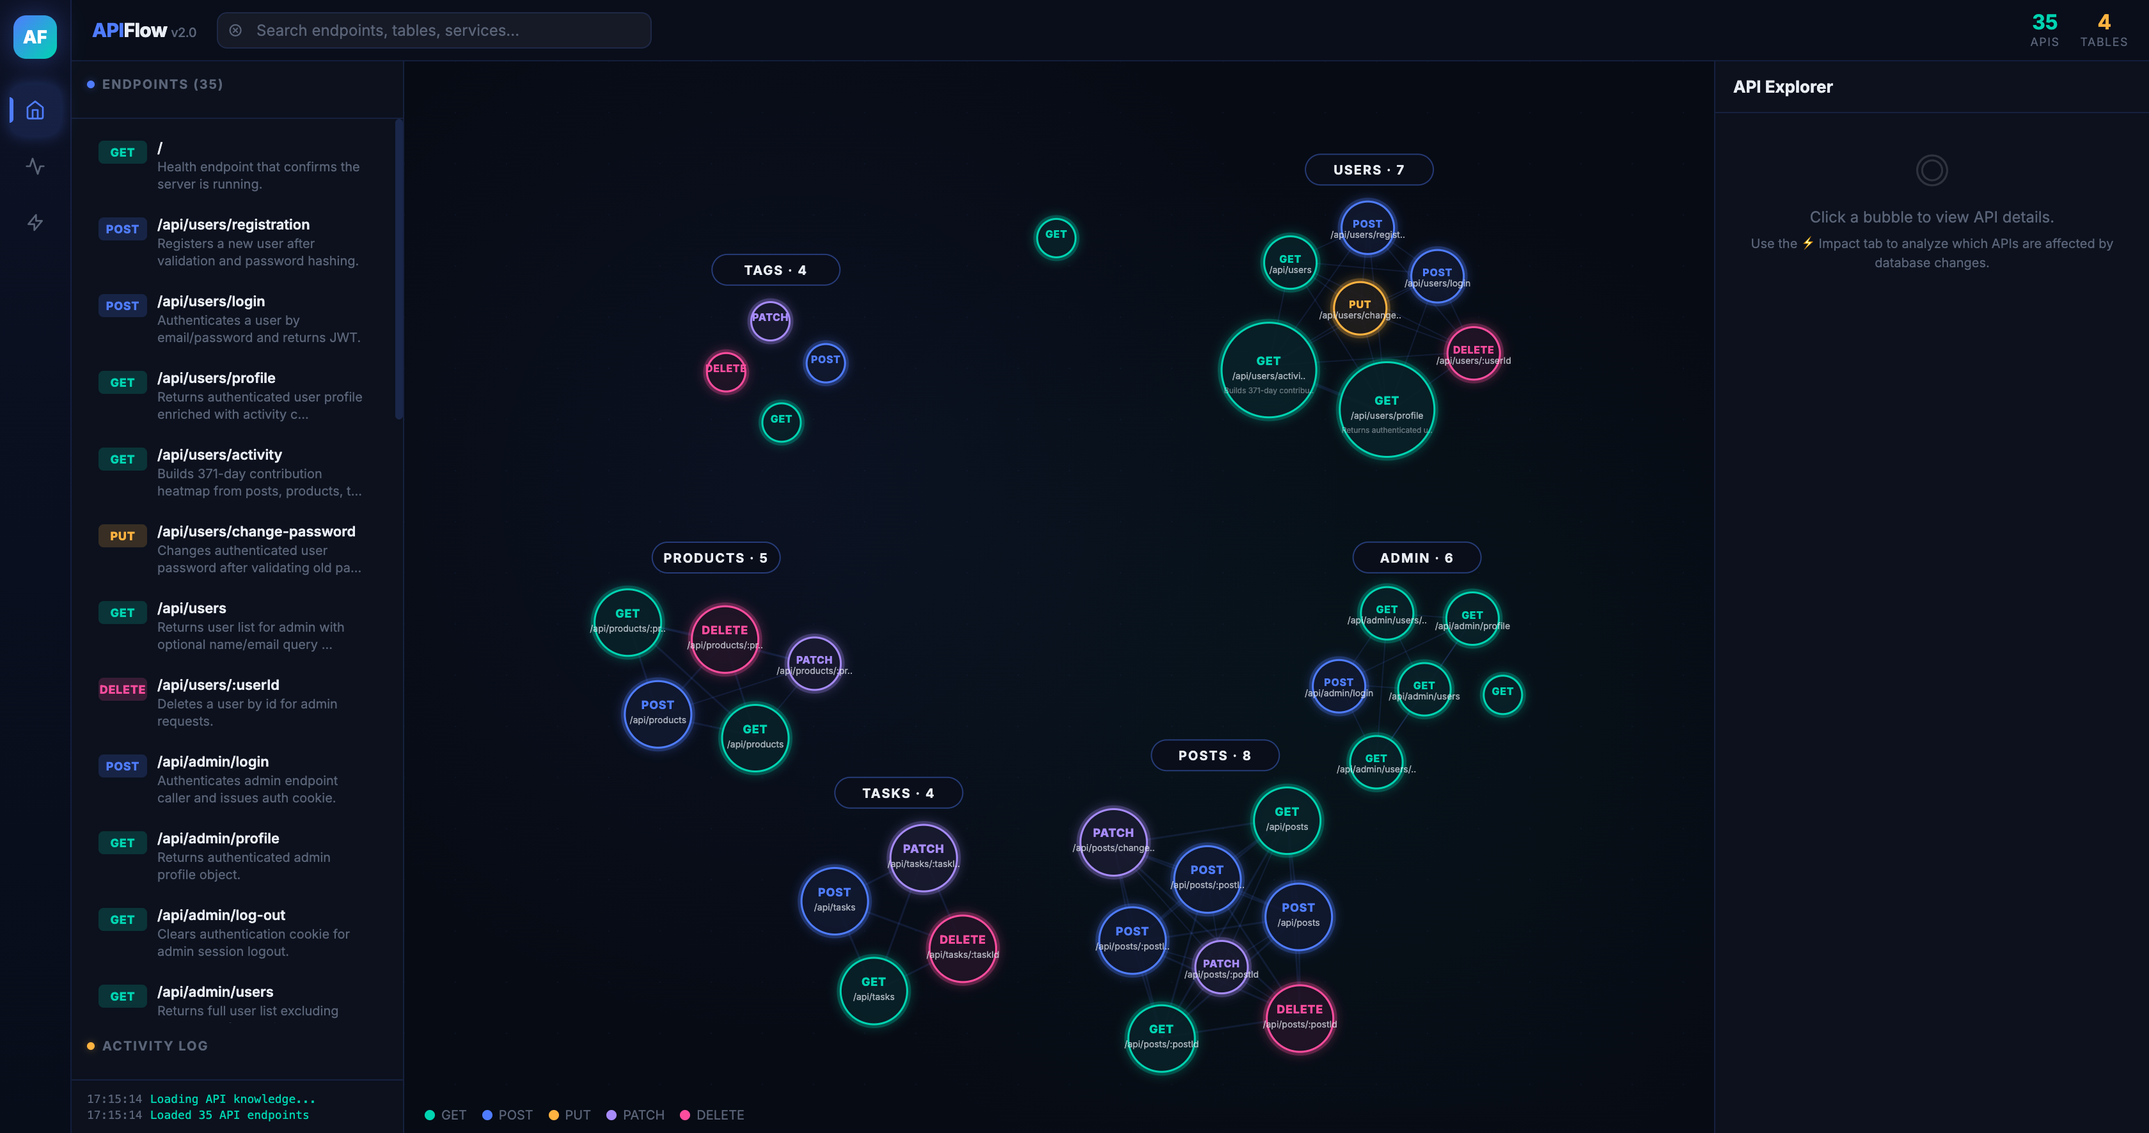
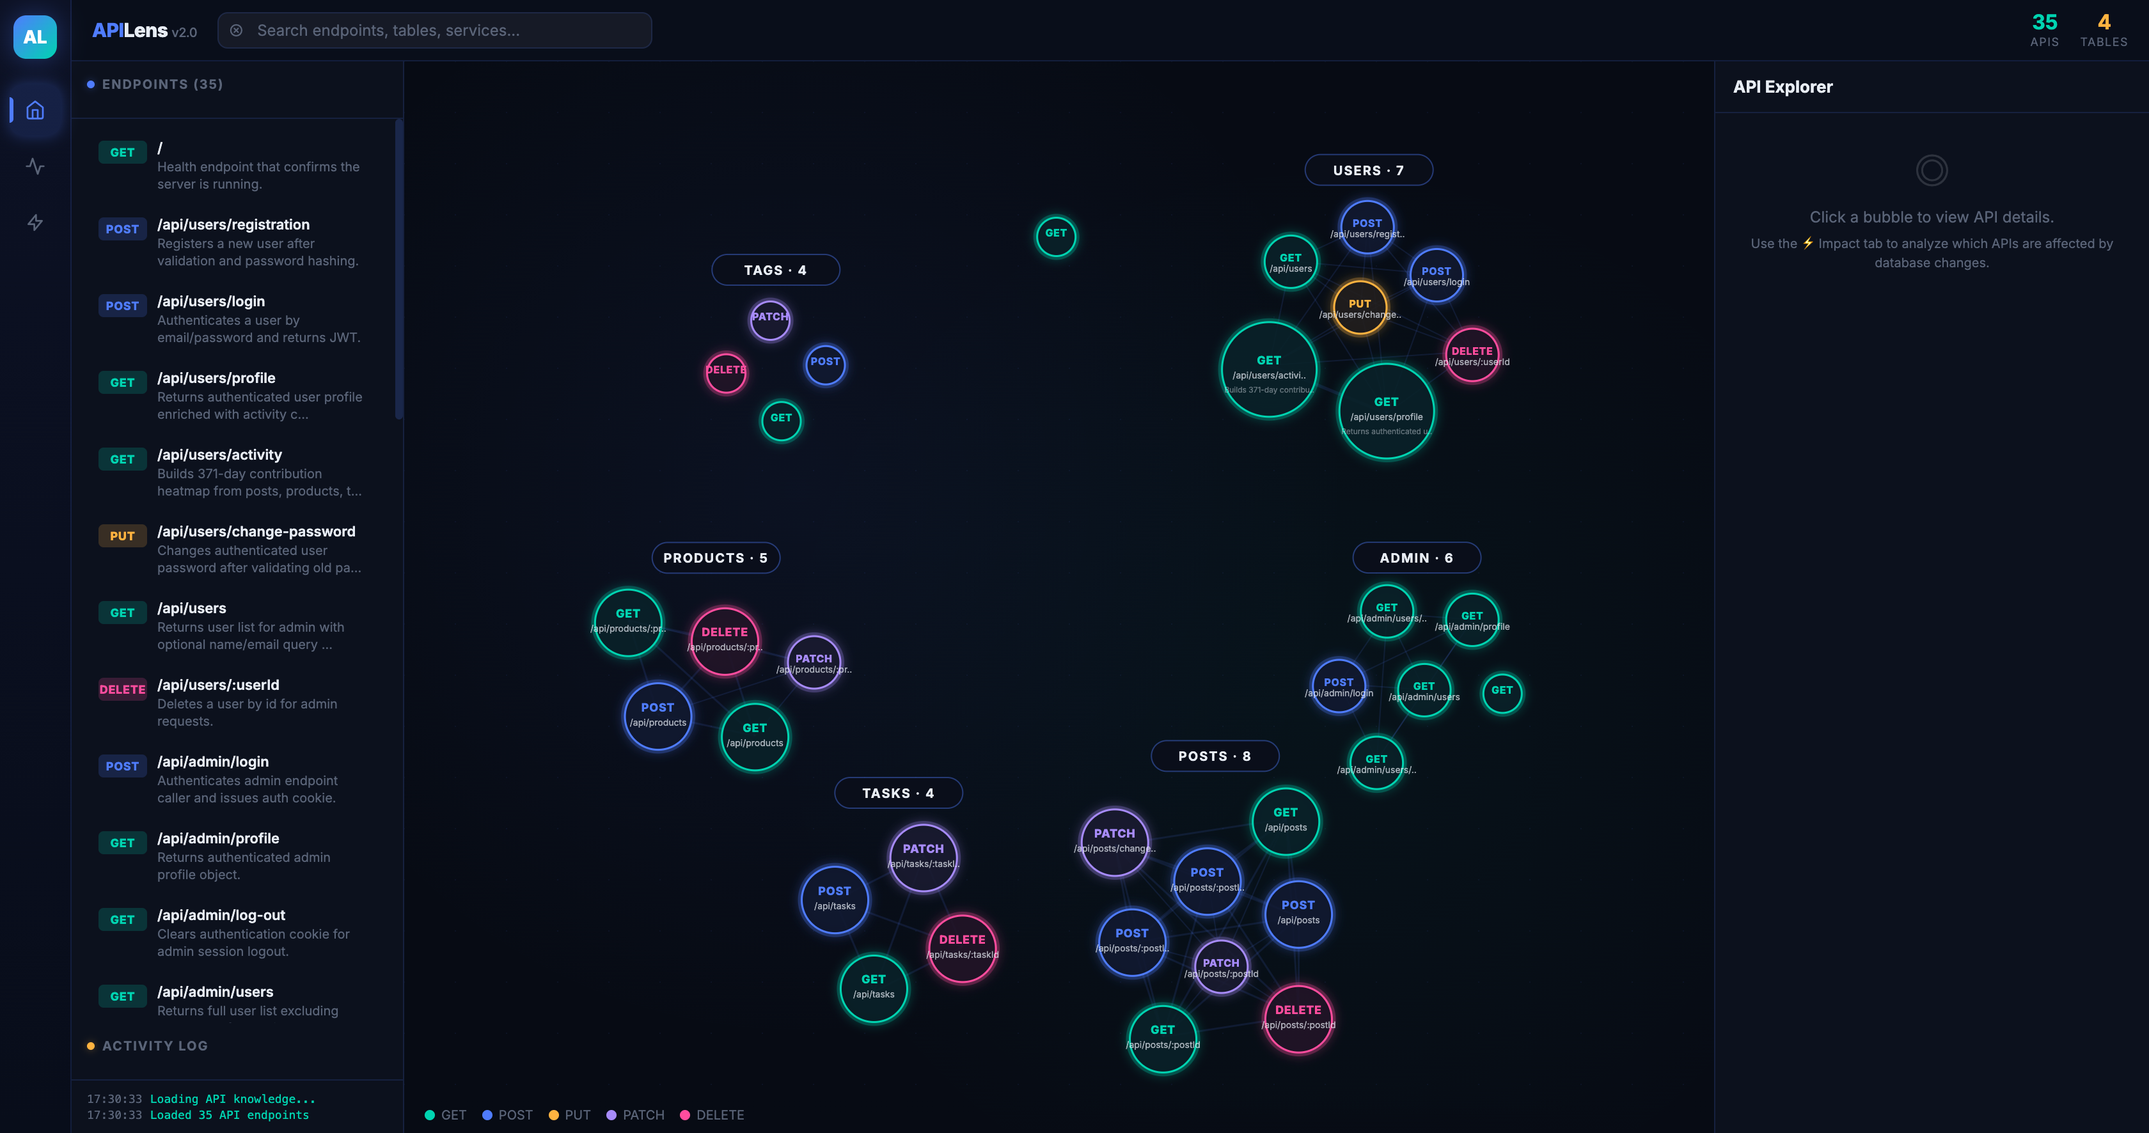
feat(rename): rebrand APIFlow/apimap → APILens/apilens everywhere
Brand rename across the full codebase:

UI (public/index.html)
  - Page title: APIFlow → APILens
  - Top-bar brand text: 'Flow' → 'Lens' (logo monogram AF → AL)
  - Demo cache refs: .apimap/ → .apilens/
  - Error hint: apimap scan → apilens scan

CLI (src/cli.js)
  - Binary name: apimap → apilens
  - Usage text, init message, scan-prompt banner, serve startup log
  - Cache dir references: .apimap → .apilens

Engine
  - cache.js: CACHE_DIR '.apimap' → '.apilens'
  - scanner.js: skip dir '.apimap' → '.apilens'
  - workflow.js: APIMAP → APILENS, APIFlow → APILens, .apimap/ → .apilens/
  - server.js: error hints updated

package.json
  - name: apiflow → apilens
  - bin + script key: apimap → apilens
  - description updated to the new tagline

README.md
  - All APIFlow → APILens, apimap → apilens, .apimap/ → .apilens/
  - Fresh screenshots with APILens branding in all 4 views

docs/screenshots/
  - Replaced all 5 screenshots with fresh captures showing APILens v2.0

diff --git a/src/cli.js b/src/cli.js
@@ -11,12 +11,12 @@ const OPTION_ALIASES = {
 };
 
 function printUsage() {
-  console.log(`Usage: apimap <init|scan|scan-prompt|serve> [path]
+  console.log(`Usage: apilens <init|scan|scan-prompt|serve> [path]
 
 Path behavior:
   - Provide [path] (or --dir <path>) to target that exact directory.
-  - If omitted for init/scan/scan-prompt, apimap uses the nearest git repository root.
-  - If omitted for serve, apimap serves the current working directory.
+  - If omitted for init/scan/scan-prompt, apilens uses the nearest git repository root.
+  - If omitted for serve, apilens serves the current working directory.
 `);
 }
 
@@ -120,7 +120,7 @@ async function main() {
 
   if (command === 'init') {
     ensureCacheDir(targetPath);
-    console.log(`Initialized .apimap cache at ${targetPath}`);
+    console.log(`Initialized .apilens cache at ${targetPath}`);
     return;
   }
 
@@ -134,15 +134,15 @@ async function main() {
   if (command === 'scan-prompt') {
     const result = generateOpenCodeScanPrompt(targetPath);
 
-    // Write the instruction file into the target repo's .apimap directory
-    const apimapDir = path.join(targetPath, '.apimap');
-    fs.mkdirSync(apimapDir, { recursive: true });
-    const instructionFile = path.join(apimapDir, 'SCAN_INSTRUCTIONS.md');
+    // Write the instruction file into the target repo's .apilens directory
+    const apilensDir = path.join(targetPath, '.apilens');
+    fs.mkdirSync(apilensDir, { recursive: true });
+    const instructionFile = path.join(apilensDir, 'SCAN_INSTRUCTIONS.md');
     fs.writeFileSync(instructionFile, result.prompt, 'utf8');
 
     console.log('');
     console.log('╔══════════════════════════════════════════════════════════╗');
-    console.log('║            APIFlow Scan Instructions Ready               ║');
+    console.log('║            APILens Scan Instructions Ready               ║');
     console.log('╠══════════════════════════════════════════════════════════╣');
     console.log(`║  📄 Instruction file created at:                         ║`);
     console.log(`║     ${instructionFile.padEnd(54)}║`);
@@ -153,10 +153,10 @@ async function main() {
     console.log('║    "Follow the instructions in SCAN_INSTRUCTIONS.md"    ║');
     console.log('║                                                          ║');
     console.log('║  The AI will scan your repo and create:                  ║');
-    console.log('║    • .apimap/api_knowledge.json  (required)              ║');
-    console.log('║    • .apimap/metadata.json       (audit trail)           ║');
+    console.log('║    • .apilens/api_knowledge.json  (required)             ║');
+    console.log('║    • .apilens/metadata.json       (audit trail)          ║');
     console.log('║                                                          ║');
-    console.log('║  Then run:  npx apimap serve .                           ║');
+    console.log('║  Then run:  npx apilens serve .                          ║');
     console.log('╚══════════════════════════════════════════════════════════╝');
     console.log('');
     console.log(JSON.stringify({ fileCount: result.fileCount, routeCount: result.routeCount, instructionFile }, null, 2));
@@ -167,7 +167,7 @@ async function main() {
     const app = createServer(targetPath);
     const port = process.env.PORT || 3789;
     app.listen(port, () => {
-      console.log(`APIMap server listening at http://localhost:${port}`);
+      console.log(`APILens server listening at http://localhost:${port}`);
     });
     return;
   }
@@ -178,7 +178,7 @@ async function main() {
 
 if (require.main === module) {
   main().catch((error) => {
-    console.error(`apimap failed: ${error.message}`);
+    console.error(`apilens failed: ${error.message}`);
     process.exit(1);
   });
 }

diff --git a/public/index.html b/public/index.html
@@ -3,7 +3,7 @@
   <head>
     <meta charset="UTF-8" />
     <meta name="viewport" content="width=device-width, initial-scale=1.0" />
-    <title>APIFlow</title>
+    <title>APILens</title>
     <link rel="icon" href="data:," />
     <link rel="preconnect" href="https://fonts.googleapis.com" />
     <link rel="preconnect" href="https://fonts.gstatic.com" crossorigin />
@@ -434,14 +434,14 @@
         {
           method: 'GET', path: '/api/graph',
           summary: 'Returns generated API dependency graph data for visualization.',
-          flow: ['Receive request from UI explorer', 'Read .apimap/graph.json from cache files', 'Respond with graph payload'],
-          tables: [], services: [], caches: ['.apimap/graph.json'], queues: [], tableAccess: []
+          flow: ['Receive request from UI explorer', 'Read .apilens/graph.json from cache files', 'Respond with graph payload'],
+          tables: [], services: [], caches: ['.apilens/graph.json'], queues: [], tableAccess: []
         },
         {
           method: 'GET', path: '/api/apis',
           summary: 'Returns API knowledge summaries from cache for endpoint navigation.',
-          flow: ['Receive request from UI explorer', 'Read .apimap/api_knowledge.json from cache', 'Flatten API entries and return list'],
-          tables: [], services: [], caches: ['.apimap/api_knowledge.json'], queues: [], tableAccess: []
+          flow: ['Receive request from UI explorer', 'Read .apilens/api_knowledge.json from cache', 'Flatten API entries and return list'],
+          tables: [], services: [], caches: ['.apilens/api_knowledge.json'], queues: [], tableAccess: []
         },
         {
           method: 'GET', path: '/api/accounts/:accountId',
@@ -1440,7 +1440,7 @@
             addLog('Loading API knowledge...', 'ok');
             try {
               const res = await fetch('/api/apis');
-              if (!res.ok) throw new Error('Using demo data. Run `apimap scan .` to load live cache.');
+              if (!res.ok) throw new Error('Using demo data. Run `apilens scan .` to load live cache.');
               const payload = await res.json();
               const loaded = Array.isArray(payload.apis) ? payload.apis : fallbackApis;
               setRawApis(loaded);
@@ -1479,7 +1479,7 @@
 
         /* ---- Issue #6: Icon Sidebar (fixed nav with Impact Analysis) ---- */
         const iconSidebar = h('nav', { className: 'icon-sidebar', key: 'icon-sidebar' }, [
-          h('div', { className: 'logo', key: 'logo' }, 'AF'),
+          h('div', { className: 'logo', key: 'logo' }, 'AL'),
           /* Explorer */
           h('button', {
             className: 'icon-btn' + (activeNav === 'explorer' ? ' active' : ''),
@@ -1505,7 +1505,7 @@
         const topbar = h('header', { className: 'topbar', key: 'topbar' }, [
           h('div', { className: 'topbar-brand', key: 'brand' }, [
             h('span', { className: 'highlight', key: 'h' }, 'API'),
-            'Flow ',
+            'Lens ',
             h('span', { style: { color: '#5a6478', fontSize: 10, fontWeight: 500 }, key: 'v' }, 'v2.0')
           ]),
           h('div', { className: 'topbar-search', key: 'search' }, [

diff --git a/src/engine/workflow.js b/src/engine/workflow.js
@@ -14,9 +14,9 @@ function generateOpenCodeScanPrompt(repoPath) {
 
   const prompt = [
     '═══════════════════════════════════════════════════════════',
-    'APIMAP SCAN — PURPOSE',
+    'APILENS SCAN — PURPOSE',
     '═══════════════════════════════════════════════════════════',
-    'You are generating scan cache files for the APIFlow dashboard.',
+    'You are generating scan cache files for the APILens dashboard.',
     'The dashboard renders these views from your output:',
     '  • Bubble chart   — one bubble per API, grouped by URL domain (users / admin / posts / …)',
     '  • Explorer       — searchable list of all endpoints with one-line summaries',
@@ -24,11 +24,11 @@ function generateOpenCodeScanPrompt(repoPath) {
     '  • Impact Analysis — shows which APIs break when a specific DB table or column changes',
     '',
     'Everything the dashboard displays is derived exclusively from',
-    '  .apimap/api_knowledge.json  ← PRIMARY OUTPUT (required)',
-    '  .apimap/metadata.json       ← AUDIT TRAIL (required)',
+    '  .apilens/api_knowledge.json  ← PRIMARY OUTPUT (required)',
+    '  .apilens/metadata.json       ← AUDIT TRAIL (required)',
     '',
     'graph.json and scan_state.json are derived automatically by the',
-    'APIFlow server on first boot — you do NOT need to generate them.',
+    'APILens server on first boot — you do NOT need to generate them.',
     '',
     `REPOSITORY_ROOT: ${root}`,
     '',
@@ -98,7 +98,7 @@ function generateOpenCodeScanPrompt(repoPath) {
     '   Trace each route through its controller → service → repository layers.',
     '   Impact analysis quality depends on accurate table + column coverage; be thorough.',
     '',
-    '3) Create `.apimap/metadata.json` — a JSON array, one entry per route:',
+    '3) Create `.apilens/metadata.json` — a JSON array, one entry per route:',
     '   { "method": "POST", "path": "/api/users", "framework": "express",',
     '     "filePath": "routes/users.js", "tables": ["users"],',
     '     "services": [], "dependencies": ["bcrypt","jsonwebtoken"],',
@@ -107,7 +107,7 @@ function generateOpenCodeScanPrompt(repoPath) {
     '                       "operations": ["SELECT","INSERT"], "evidence": ["controller/user.js:31"] }],',
     '     "code": "<30-word relevant handler snippet>" }',
     '',
-    '4) Create `.apimap/api_knowledge.json` — a JSON array, one wrapper object per route:',
+    '4) Create `.apilens/api_knowledge.json` — a JSON array, one wrapper object per route:',
     '   { "apis": [{ "method": "POST", "path": "/api/users",',
     '                "summary": "Creates a new user after validating email uniqueness and hashing the password.",',
     '                "flow": ["Validate request body","Check for duplicate email in users",',

diff --git a/src/server.js b/src/server.js
@@ -34,7 +34,7 @@ function createServer(rootDir) {
         const { graph } = readCache(rootDir);
         return sendJson(res, 200, graph);
       } catch {
-        return sendJson(res, 500, { error: 'Failed to load graph cache. Run `apimap scan .` first.' });
+        return sendJson(res, 500, { error: 'Failed to load graph cache. Run `apilens scan .` first.' });
       }
     }
 
@@ -44,7 +44,7 @@ function createServer(rootDir) {
         const apis = apiKnowledge.flatMap((summary) => summary.apis);
         return sendJson(res, 200, { apis });
       } catch {
-        return sendJson(res, 500, { error: 'Failed to load api knowledge cache. Run `apimap scan .` first.' });
+        return sendJson(res, 500, { error: 'Failed to load api knowledge cache. Run `apilens scan .` first.' });
       }
     }
 
@@ -56,7 +56,7 @@ function createServer(rootDir) {
         const impact = buildImpactPayload(apiKnowledge, { table, column });
         return sendJson(res, 200, impact);
       } catch {
-        return sendJson(res, 500, { error: 'Failed to load impact data. Run `apimap scan .` first.' });
+        return sendJson(res, 500, { error: 'Failed to load impact data. Run `apilens scan .` first.' });
       }
     }
 

diff --git a/src/engine/cache.js b/src/engine/cache.js
@@ -1,7 +1,7 @@
 const fs = require('fs');
 const path = require('path');
 
-const CACHE_DIR = '.apimap';
+const CACHE_DIR = '.apilens';
 
 function ensureCacheDir(rootDir) {
   const cacheDir = path.join(rootDir, CACHE_DIR);
@@ -21,7 +21,7 @@ function writeCache(rootDir, data) {
 }
 
 /**
- * Reads the API knowledge cache from rootDir/.apimap/.
+ * Reads the API knowledge cache from rootDir/.apilens/.
  *
  * Only api_knowledge.json is strictly required (it drives all dashboard views).
  * graph.json and scan_state.json are derived artifacts — they are auto-generated

diff --git a/src/engine/scanner.js b/src/engine/scanner.js
@@ -2,7 +2,7 @@ const fs = require('fs');
 const path = require('path');
 
 const CODE_EXTENSIONS = new Set(['.js', '.jsx', '.ts', '.tsx', '.mjs', '.cjs']);
-const SKIP_DIRS = new Set(['.git', 'node_modules', '.apimap', 'dist', 'build', '.next', 'coverage']);
+const SKIP_DIRS = new Set(['.git', 'node_modules', '.apilens', 'dist', 'build', '.next', 'coverage']);
 
 function walkRepository(rootDir) {
   const discoveredFiles = [];

diff --git a/README.md b/README.md
@@ -1,6 +1,6 @@
 <div align="center">
 
-# APIFlow
+# APILens
 
 **AI-powered API knowledge graph for Node.js backends**
 
@@ -8,15 +8,15 @@
 
 [![License: MIT](https://img.shields.io/badge/License-MIT-blue.svg)](LICENSE)
 [![Node.js](https://img.shields.io/badge/Node.js-18%2B-green.svg)](https://nodejs.org)
-[![npm](https://img.shields.io/badge/npx-apimap-red.svg)](https://npmjs.com/package/apimap)
+[![npm](https://img.shields.io/badge/npx-apilens-red.svg)](https://npmjs.com/package/apilens)
 
 </div>
 
 ---
 
-## What is APIFlow?
+## What is APILens?
 
-APIFlow scans your Node.js/TypeScript backend with an AI coding agent and builds a rich, interactive knowledge graph. No manual documentation. No API keys required for serving.
+APILens scans your Node.js/TypeScript backend with an AI coding agent and builds a rich, interactive knowledge graph. No manual documentation. No API keys required for serving.
 
 | Feature | Description |
 |---|---|
@@ -66,17 +66,17 @@ APIFlow scans your Node.js/TypeScript backend with an AI coding agent and builds
 ### 1. Generate scan instructions
 
 ```bash
-npx apimap scan-prompt /path/to/your/repo
+npx apilens scan-prompt /path/to/your/repo
 ```
 
-This creates `.apimap/SCAN_INSTRUCTIONS.md` inside your target repo and prints:
+This creates `.apilens/SCAN_INSTRUCTIONS.md` inside your target repo and prints:
 
 ```
 ╔══════════════════════════════════════════════════════════╗
-║            APIFlow Scan Instructions Ready               ║
+║           APILens Scan Instructions Ready                ║
 ╠══════════════════════════════════════════════════════════╣
 ║  📄 Instruction file created at:                         ║
-║     /your/repo/.apimap/SCAN_INSTRUCTIONS.md              ║
+║     /your/repo/.apilens/SCAN_INSTRUCTIONS.md              ║
 ╠══════════════════════════════════════════════════════════╣
 ║  Next step — open this file in your AI coding agent      ║
 ║  (Claude Code, Cursor, Copilot, etc.) and run:           ║
@@ -84,29 +84,29 @@ This creates `.apimap/SCAN_INSTRUCTIONS.md` inside your target repo and prints:
 ║    "Follow the instructions in SCAN_INSTRUCTIONS.md"    ║
 ║                                                          ║
 ║  The AI will scan your repo and create:                  ║
-║    • .apimap/api_knowledge.json  (required)              ║
-║    • .apimap/metadata.json       (audit trail)           ║
+║    • .apilens/api_knowledge.json  (required)              ║
+║    • .apilens/metadata.json       (audit trail)           ║
 ║                                                          ║
-║  Then run:  npx apimap serve .                           ║
+║  Then run:  npx apilens serve .                           ║
 ╚══════════════════════════════════════════════════════════╝
 ```
 
 ### 2. Run the AI scan
 
-Open `.apimap/SCAN_INSTRUCTIONS.md` in your AI coding agent (Claude Code, Cursor, GitHub Copilot, etc.) and say:
+Open `.apilens/SCAN_INSTRUCTIONS.md` in your AI coding agent (Claude Code, Cursor, GitHub Copilot, etc.) and say:
 
 > **"Follow the instructions in SCAN_INSTRUCTIONS.md"**
 
 The agent will scan every route, trace through controllers → services → repositories, and write:
-- `.apimap/api_knowledge.json` — full API knowledge (required by dashboard)
-- `.apimap/metadata.json` — raw route metadata and audit trail
+- `.apilens/api_knowledge.json` — full API knowledge (required by dashboard)
+- `.apilens/metadata.json` — raw route metadata and audit trail
 
 `graph.json` and `scan_state.json` are derived automatically by the server on first boot — no extra steps needed.
 
 ### 3. Launch the dashboard
 
 ```bash
-npx apimap serve /path/to/your/repo
+npx apilens serve /path/to/your/repo
 ```
 
 Open **http://localhost:3789** — the full dashboard is ready.
@@ -117,10 +117,10 @@ Open **http://localhost:3789** — the full dashboard is ready.
 
 | Command | Description |
 |---|---|
-| `npx apimap init [path]` | Create the `.apimap/` cache directory |
-| `npx apimap scan-prompt [path]` | Generate AI scan instructions → writes `.apimap/SCAN_INSTRUCTIONS.md` |
-| `npx apimap scan [path]` | Run a local (non-AI) metadata-only scan |
-| `npx apimap serve [path]` | Launch the dashboard server on port 3789 |
+| `npx apilens init [path]` | Create the `.apilens/` cache directory |
+| `npx apilens scan-prompt [path]` | Generate AI scan instructions → writes `.apilens/SCAN_INSTRUCTIONS.md` |
+| `npx apilens scan [path]` | Run a local (non-AI) metadata-only scan |
+| `npx apilens serve [path]` | Launch the dashboard server on port 3789 |
 
 **Path behaviour:**
 - For `init`, `scan`, `scan-prompt`: defaults to the nearest git repository root if no path is given.
@@ -147,7 +147,7 @@ npm run serve       -- /path/to/project
 
 ## Cache Files
 
-The AI scan writes to `.apimap/` inside your project:
+The AI scan writes to `.apilens/` inside your project:
 
 | File | Required | Description |
 |---|---|---|
